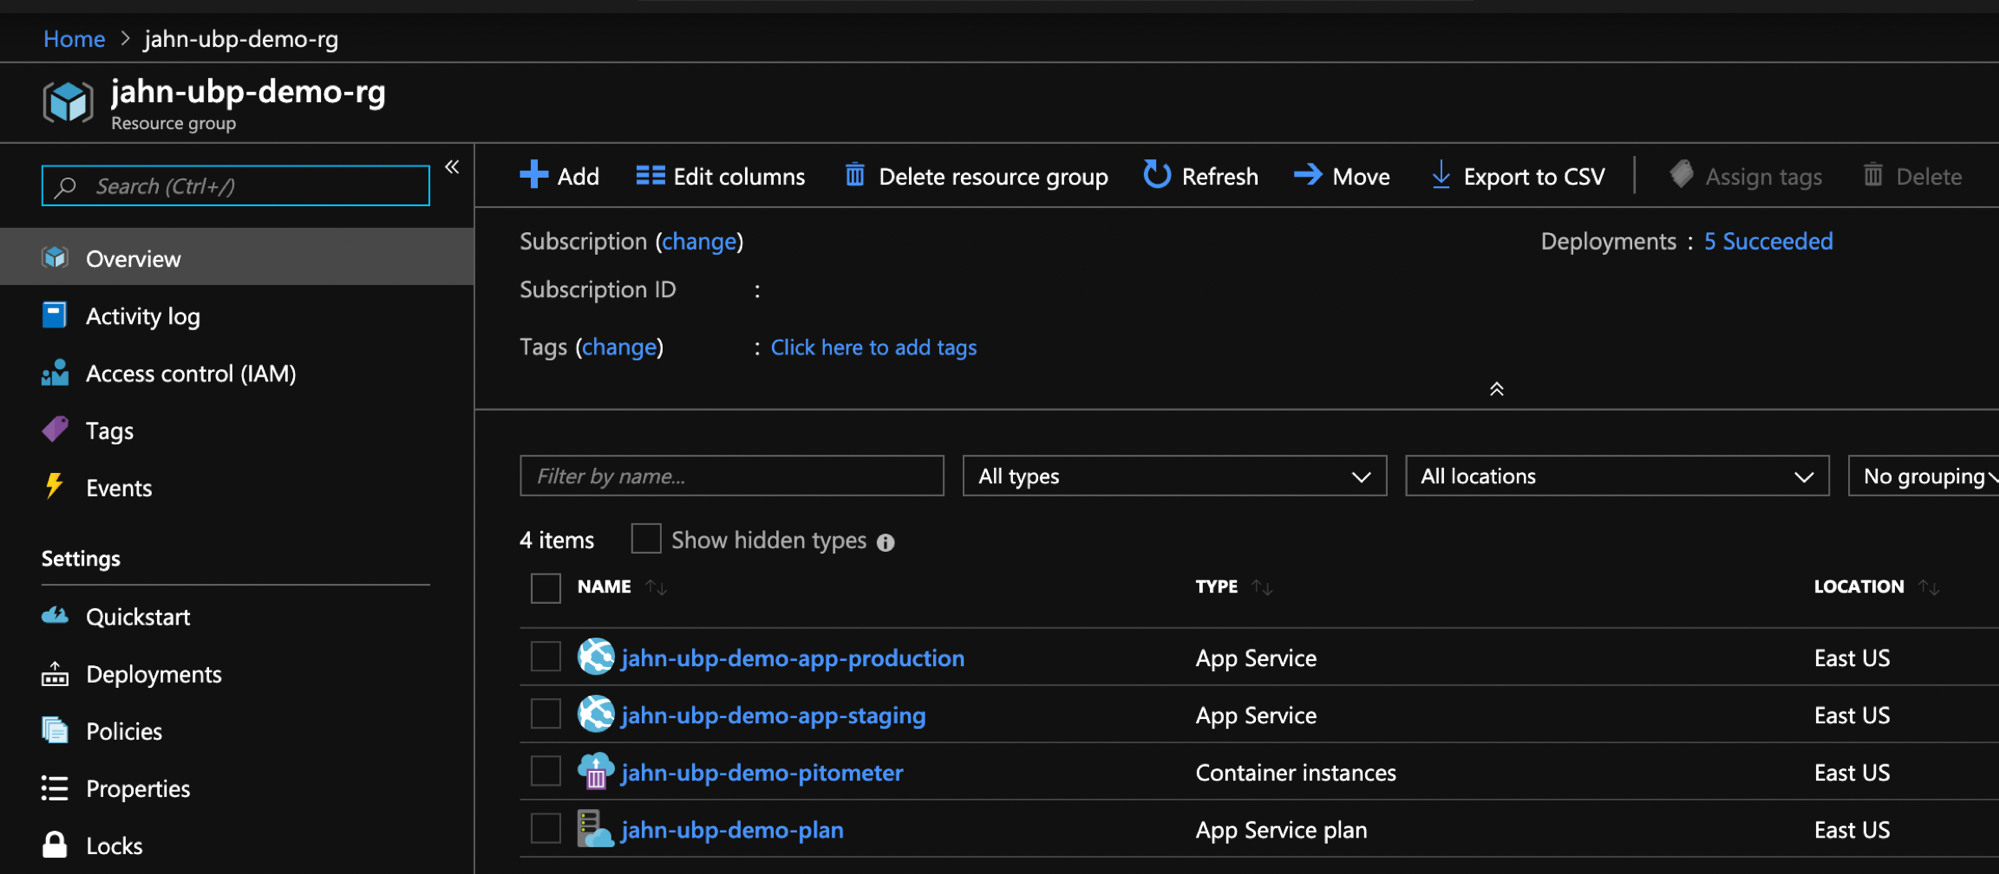
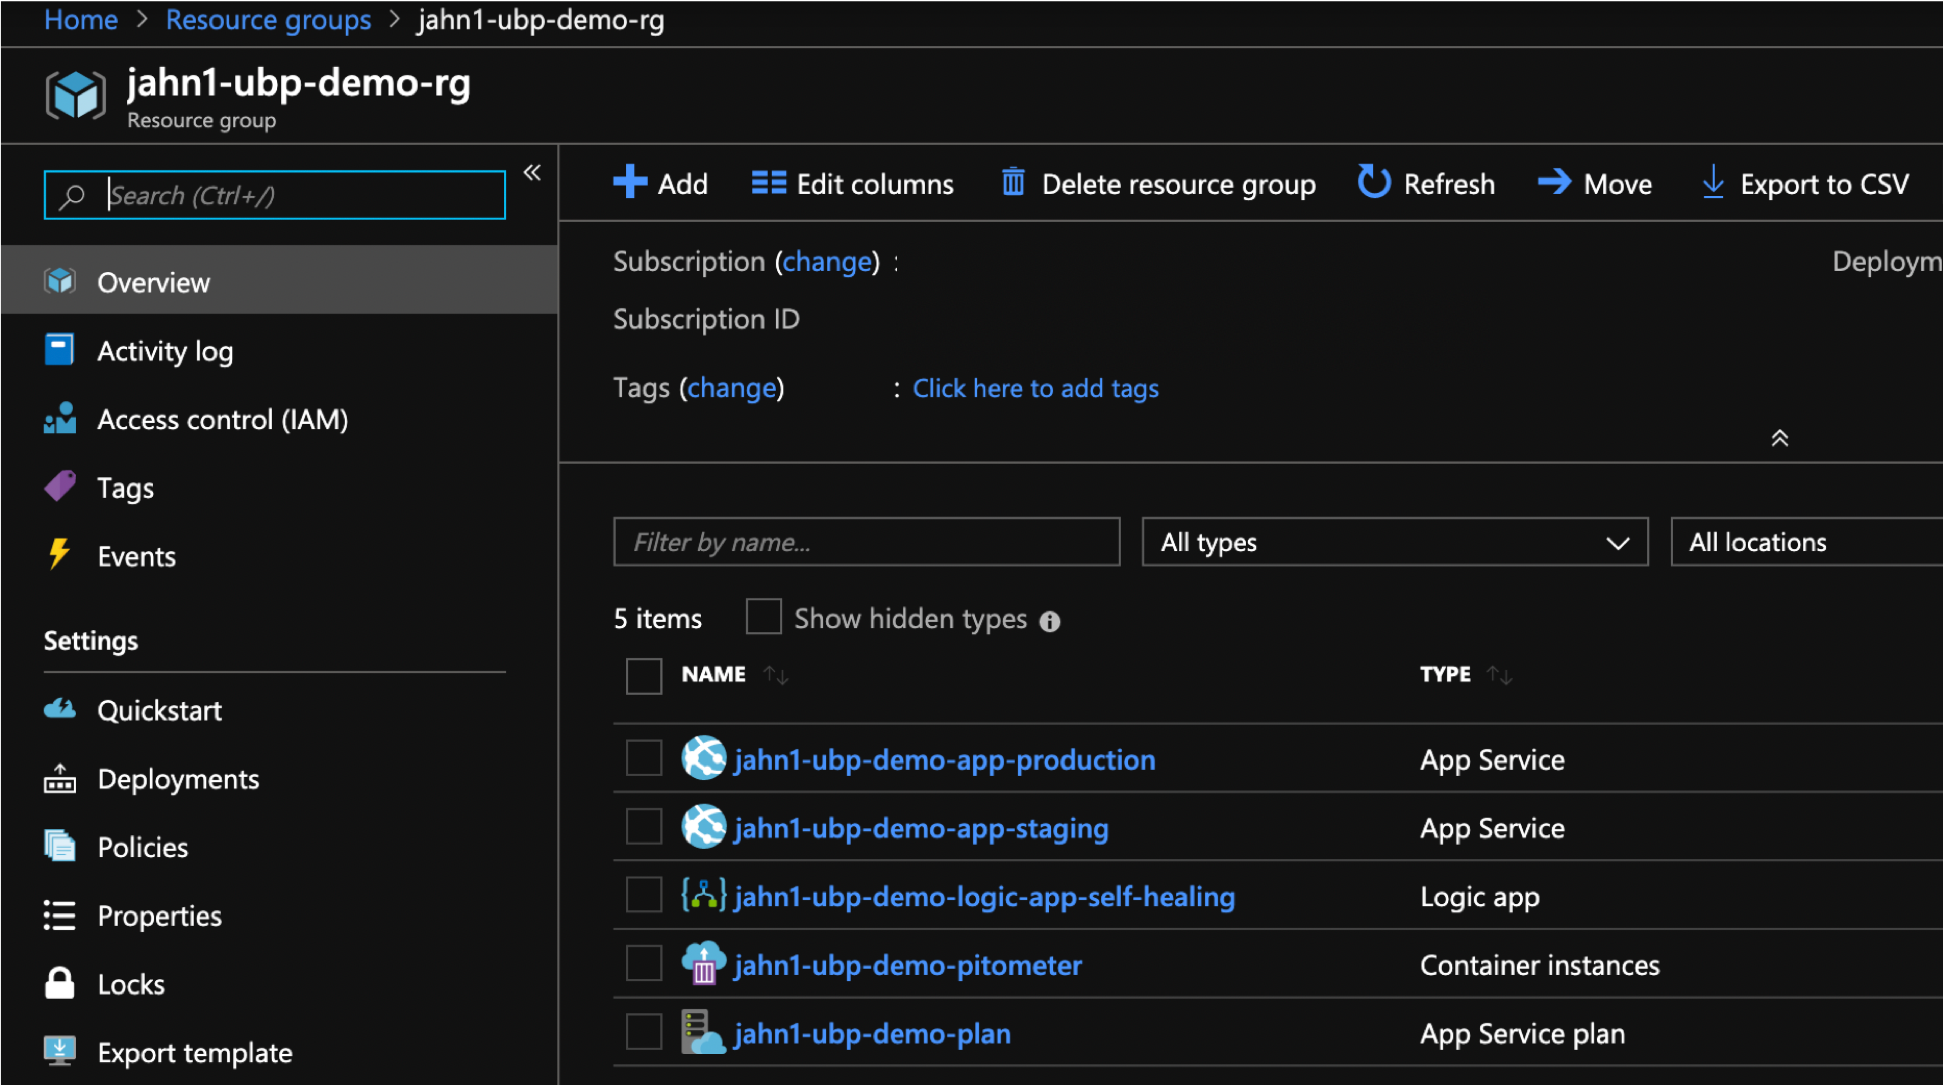
Update docs with latest code changes

diff --git a/arm/README.md b/arm/README.md
@@ -2,6 +2,13 @@
 
 This folder has scripts and azure resource temlates for provisioning a demo envionment.
 
+Files:
+* ```provision.sh``` = will create an Azure resource group, web apps, logic app, and container all
+* ```remove.sh``` = will remove the Azure resource group this removing all created resources
+* ```logicapp-template.json``` = arm template for the Azure logic app
+* ```webapp-template.json``` = arm template for the Azure web app
+* ```images/``` = files for this README
+
 When this is done you will have these resources within your defined resource group.
 
 <img src="images/az-resourcegroup.png" width="500"/>
@@ -18,43 +25,11 @@ Demo app will be reachable @ listed URL.
 
 <img src="images/az-webapp.png" width="500"/>
 
-# How to provision
+# Logic app
 
-There are two scripts to provision and remove the azure resources.  Both required you to first define the inputs.
+Logic app will be reachable the access endpoint found in the properties.
 
-1. Provision resources - creates a resource group and resources
-    ```
-    # user input values
-    export RESOURCE_PREFIX="<name that will prefix all resources names. example your last name>
-    export AZURE_LOCATION="<value like 'East US'>"
-    export AZURE_LOCATION_CODE="<value like 'eastus'>"
-    export PITOMETER_IMAGE="<if you did not build your own, use robjahn/pitometer-web-service>"
-    export AZURE_SUBSCRIPTION_ID="<guid id for your azure subscription>"
-    export DYNATRACE_ENVIONMENT_ID="<ID value like gan12345>"
-    export DYNATRACE_PAAS_TOKEN="<PaaS Token value>"
-    export DYNATRACE_API_TOKEN="<API Token value>"
-    export DYNATRACE_BASE_URL="<example https://gan12345.live.dynatrace.com"
-    export ARM_TEMPLATE_DIR="<location of arm template files.  Just use the value '.' if running locally>"
-
-    # Provision resources
-    ./provision.sh /
-        "$RESOURCE_PREFIX" /
-        "$AZURE_LOCATION" /
-        "$AZURE_LOCATION_CODE" /
-        "$PITOMETER_IMAGE" /
-        "$AZURE_SUBSCRIPTION_ID" /
-        "$DYNATRACE_ENVIONMENT_ID" /
-        "$DYNATRACE_PAAS_TOKEN" /
-        "$DYNATRACE_API_TOKEN" /
-        "$DYNATRACE_BASE_URL" /
-        "$ARM_TEMPLATE_DIR"
-    ```
-
-1. Remove resources -- this just deletes the azure resource group that contains all that your provisioned.
-    ```
-    export RESOURCE_PREFIX="<same value you used for provision.sh>"
-    ./remove.sh $RESOURCE_PREFIX
-    ```
+<img src="images/az-logicapp.png" width="500"/>
 
 # Pitometer service Testing
 
@@ -62,3 +37,41 @@ A tool like [postman](https://www.getpostman.com/) can be used to make the POST 
 
 <img src="images/postman-header.png" width="500"/>
 <img src="images/postman.png" width="500"/>
+
+# How to provision locally without DevOps pipeline
+
+There are two scripts to provision and remove the azure resources.  Both required you to first define the inputs.
+
+1. Provision resources - creates a resource group and resources
+    ```
+    # user input values
+    export AZURE_RESOURCE_PREFIX="<name that will prefix all resources names. example your last name>
+    export AZURE_LOCATION="<value like 'East US'>"
+    export AZURE_LOCATION_CODE="<value like 'eastus'>"
+    export PITOMETER_IMAGE="<if you did not build your own, use robjahn/pitometer-web-service>"
+    export AZURE_SUBSCRIPTION_NAME="<azure subscription name>"
+    export DYNATRACE_ENVIONMENT_ID="<ID value like gan12345>"
+    export DYNATRACE_PAAS_TOKEN="<PaaS Token value>"
+    export DYNATRACE_API_TOKEN="<API Token value>"
+    export DYNATRACE_BASE_URL="<example https://gan12345.live.dynatrace.com"
+    export BUILD_SOURCE_DIR="<location of arm template files.  Just use the value '.' if running locally>"
+
+    # Provision resources
+    ./provision.sh /
+        "$AZURE_RESOURCE_PREFIX" /
+        "$AZURE_LOCATION" /
+        "$AZURE_LOCATION_CODE" /
+        "$PITOMETER_IMAGE" /
+        "$AZURE_SUBSCRIPTION_NAME" /
+        "$DYNATRACE_ENVIONMENT_ID" /
+        "$DYNATRACE_PAAS_TOKEN" /
+        "$DYNATRACE_API_TOKEN" /
+        "$DYNATRACE_BASE_URL" /
+        "$BUILD_SOURCE_DIR"
+    ```
+
+1. Remove resources -- this just deletes the azure resource group that contains all that your provisioned.
+    ```
+    export AZURE_RESOURCE_PREFIX="<same value you used for provision.sh>"
+    ./remove.sh $AZURE_RESOURCE_PREFIX
+    ```

diff --git a/README.md b/README.md
@@ -10,8 +10,41 @@ Once provisioned, the sample nodejs application will look like this for both a "
 
 1. ```root folder and img/``` - location of demo ```app.js``` nodejs demo application
 1. ```perfspec/``` - folder containing sample perfspec file
-1. ```pipline/``` - folder containing scripts that can be used in DevOps pipelines
+1. ```pipeline/``` - folder containing scripts that can be used in DevOps pipelines
 1. ```arm/``` - folder containing scripts and templates to provision demo Azure resources
+
+# Provision Azure resources
+
+See [these instructions](./arm/README.md) 
+
+# Azure DevOps pipelines
+
+1. ```azure-pipelines.yml``` - this pipeline will build a zip artifact that is used to deploy to a staging and production web app. A dyntrace deployment event is done for both. A call to a pitometer web service acts as a quality gate to production
+1. ```azure-pipelines-create-resources.yml``` - this pipeline is be run one-time as to setup the envionment. This will just call arm/provision.sh
+1. ```azure-pipelines-delete-resources.yml``` - this pipeline is be run one-time as to delete the envionment. This will just call arm/remove.sh
+
+Required Pipeline variables
+* ```app-problem-number``` = value from 1 to 4
+* ```azure-location``` = value such as 'East US'
+* ```azure-location-code``` = value such as 'eastus'
+* ```azure-resource-prefix``` = use your last name such as 'smith'
+* ```azure-subscription-name``` = use name of your Azure subscription such as 'My account'
+* ```dynatrace-api-token``` = generated value from your environment
+* ```dynatrace-base-url``` = value such as 'https://<your ID>.live.dynatrace.com'
+* ```dynatrace-environment-id``` = value such as gan12345
+* ```dynatrace-paas-token``` = generated value from your environment
+* ```loadtest-duration-seconds``` = number value such as 300 (5 minutes)
+* ```pitometer-image``` = docker image. Use pre-build image of 'robjahn/pitometer-web-service'
+* ```pitometer-url``` = url to your azure container app such as 'http://<your Ip>:8080/api/pitometer'
+* ```quality-gate-status-override``` = value of 'pass' or 'fail'
+
+Recommend creating a 'Variable Group'
+<img src="img/variables.png" width="500"/>
+
+then linking the variable group to each pipeline
+
+<img src="img/variable-link.png" width="500"/>
+
 
 # Local development
 
@@ -21,6 +54,3 @@ Once provisioned, the sample nodejs application will look like this for both a "
 1. run ```npm start```
 1. access the application @ ```http://127.0.0.1:8080/```
 
-# Provision Demo resources
-
-See [these instructions](./arm/README.md) 
